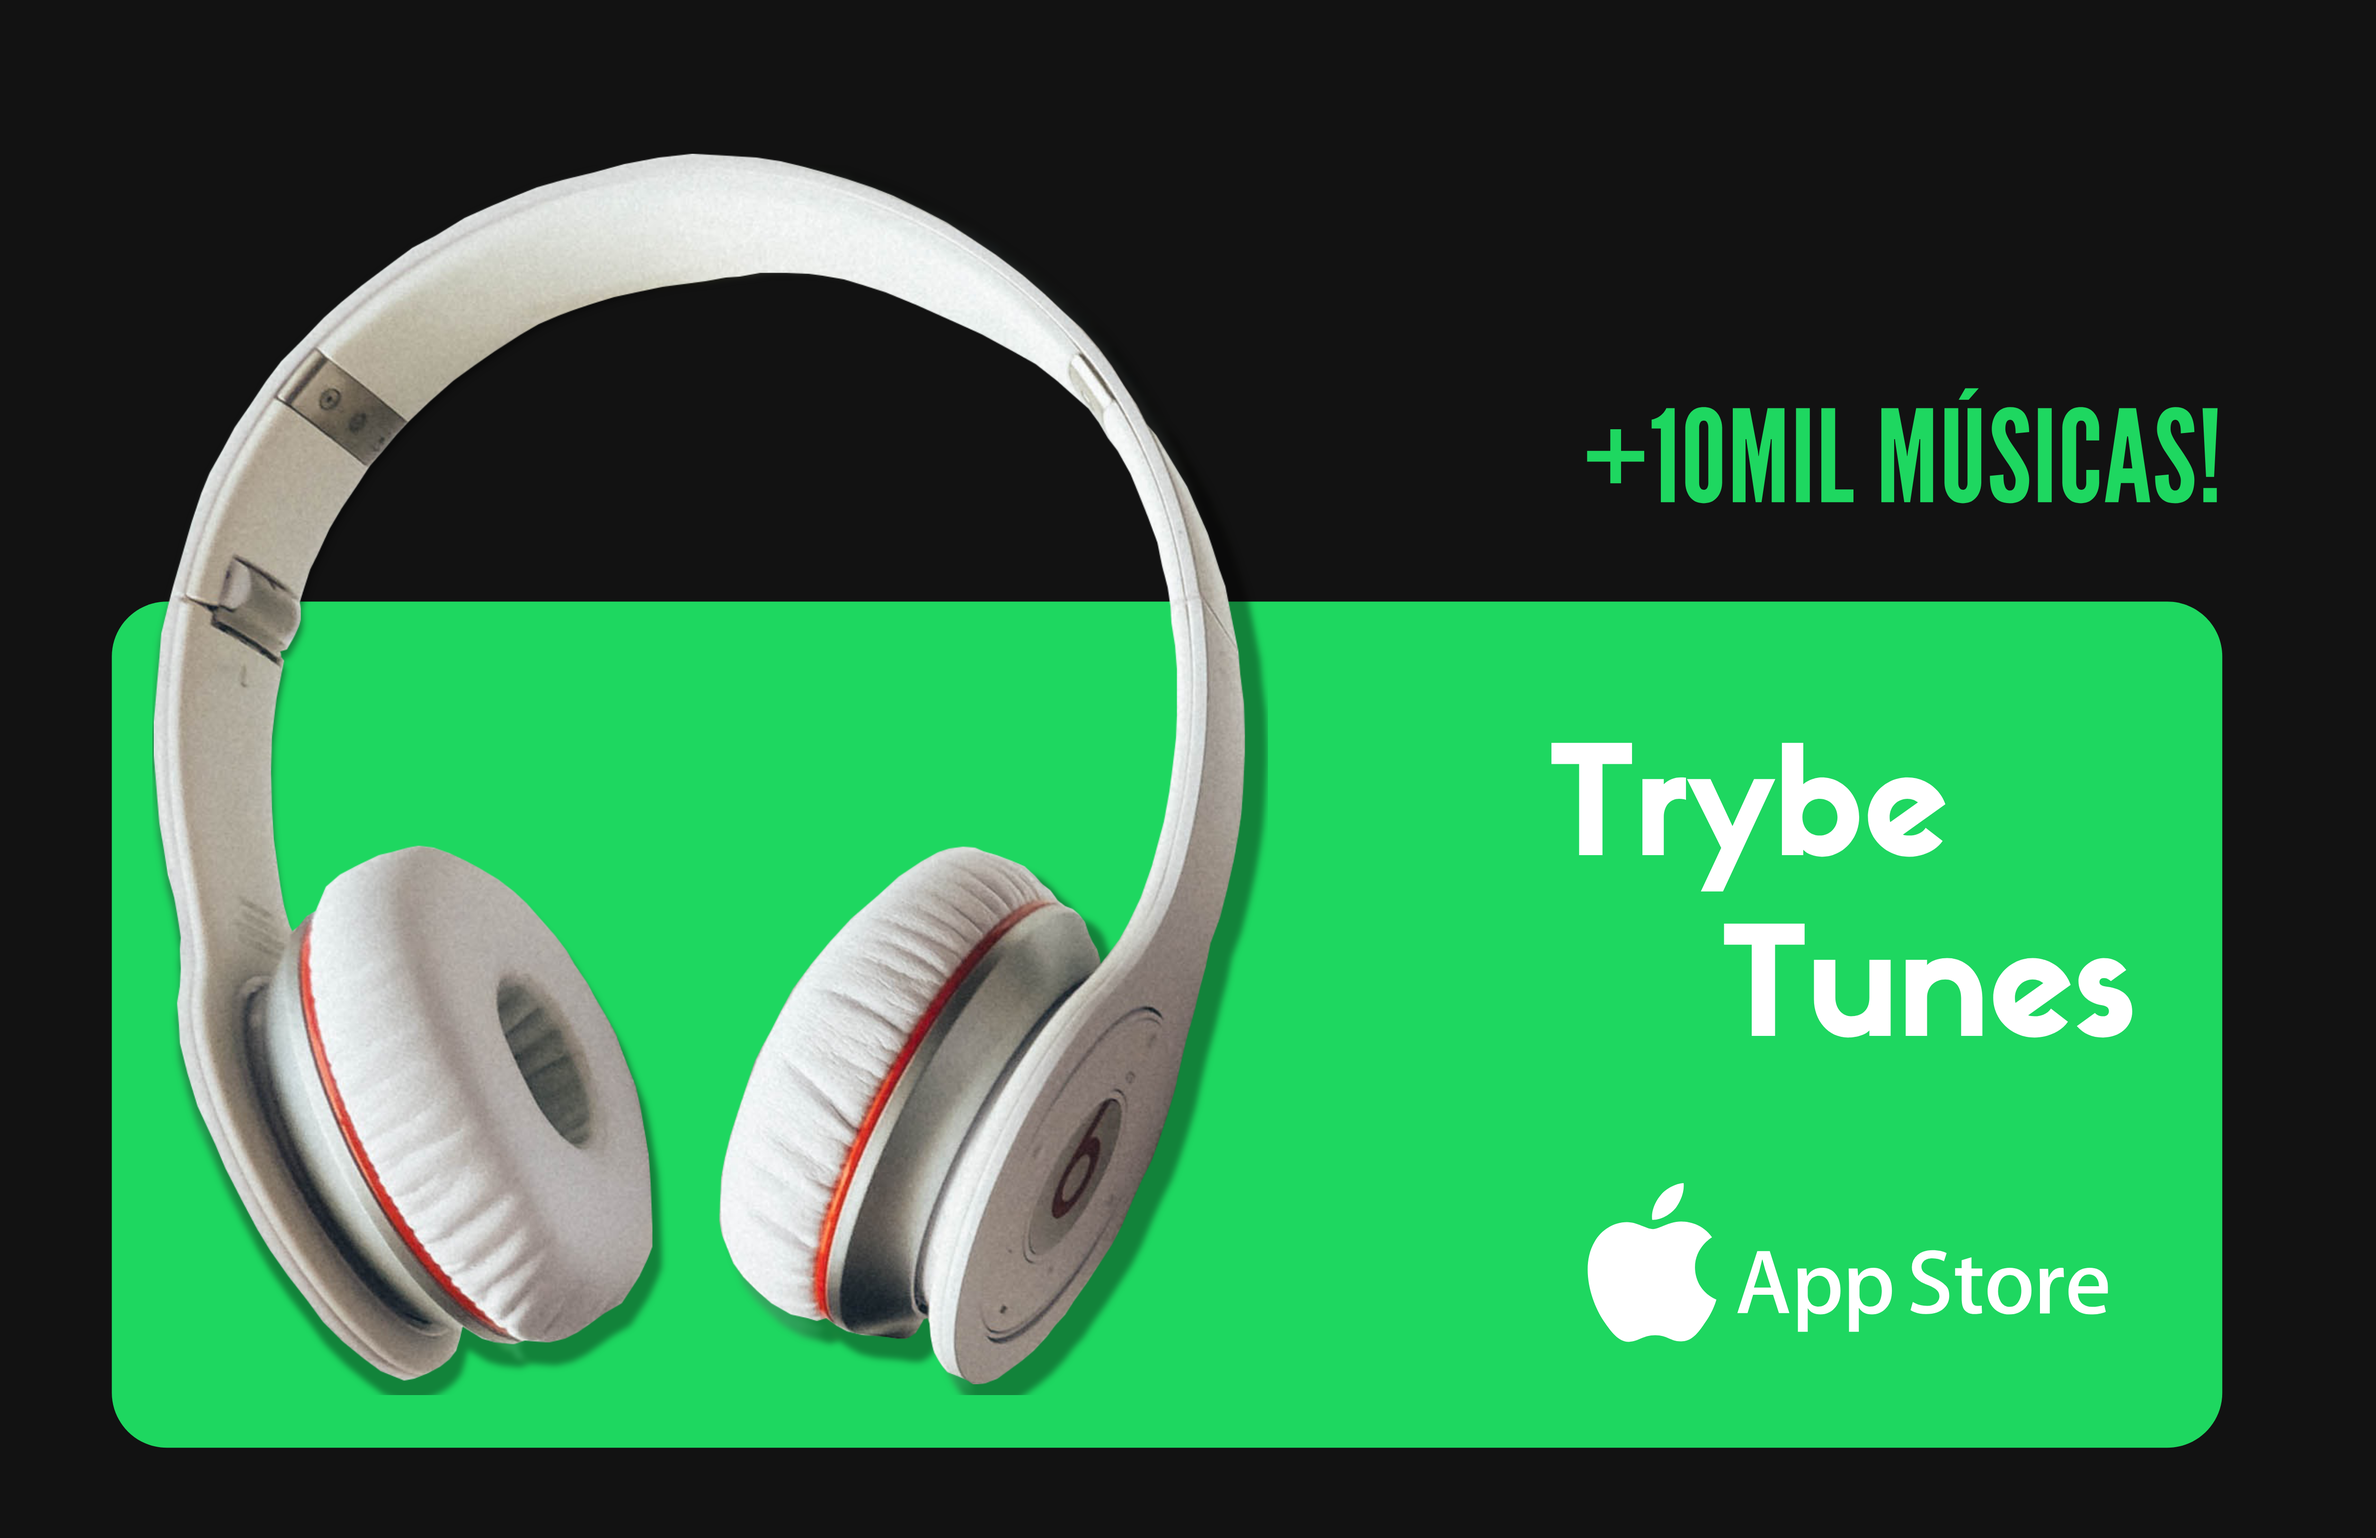
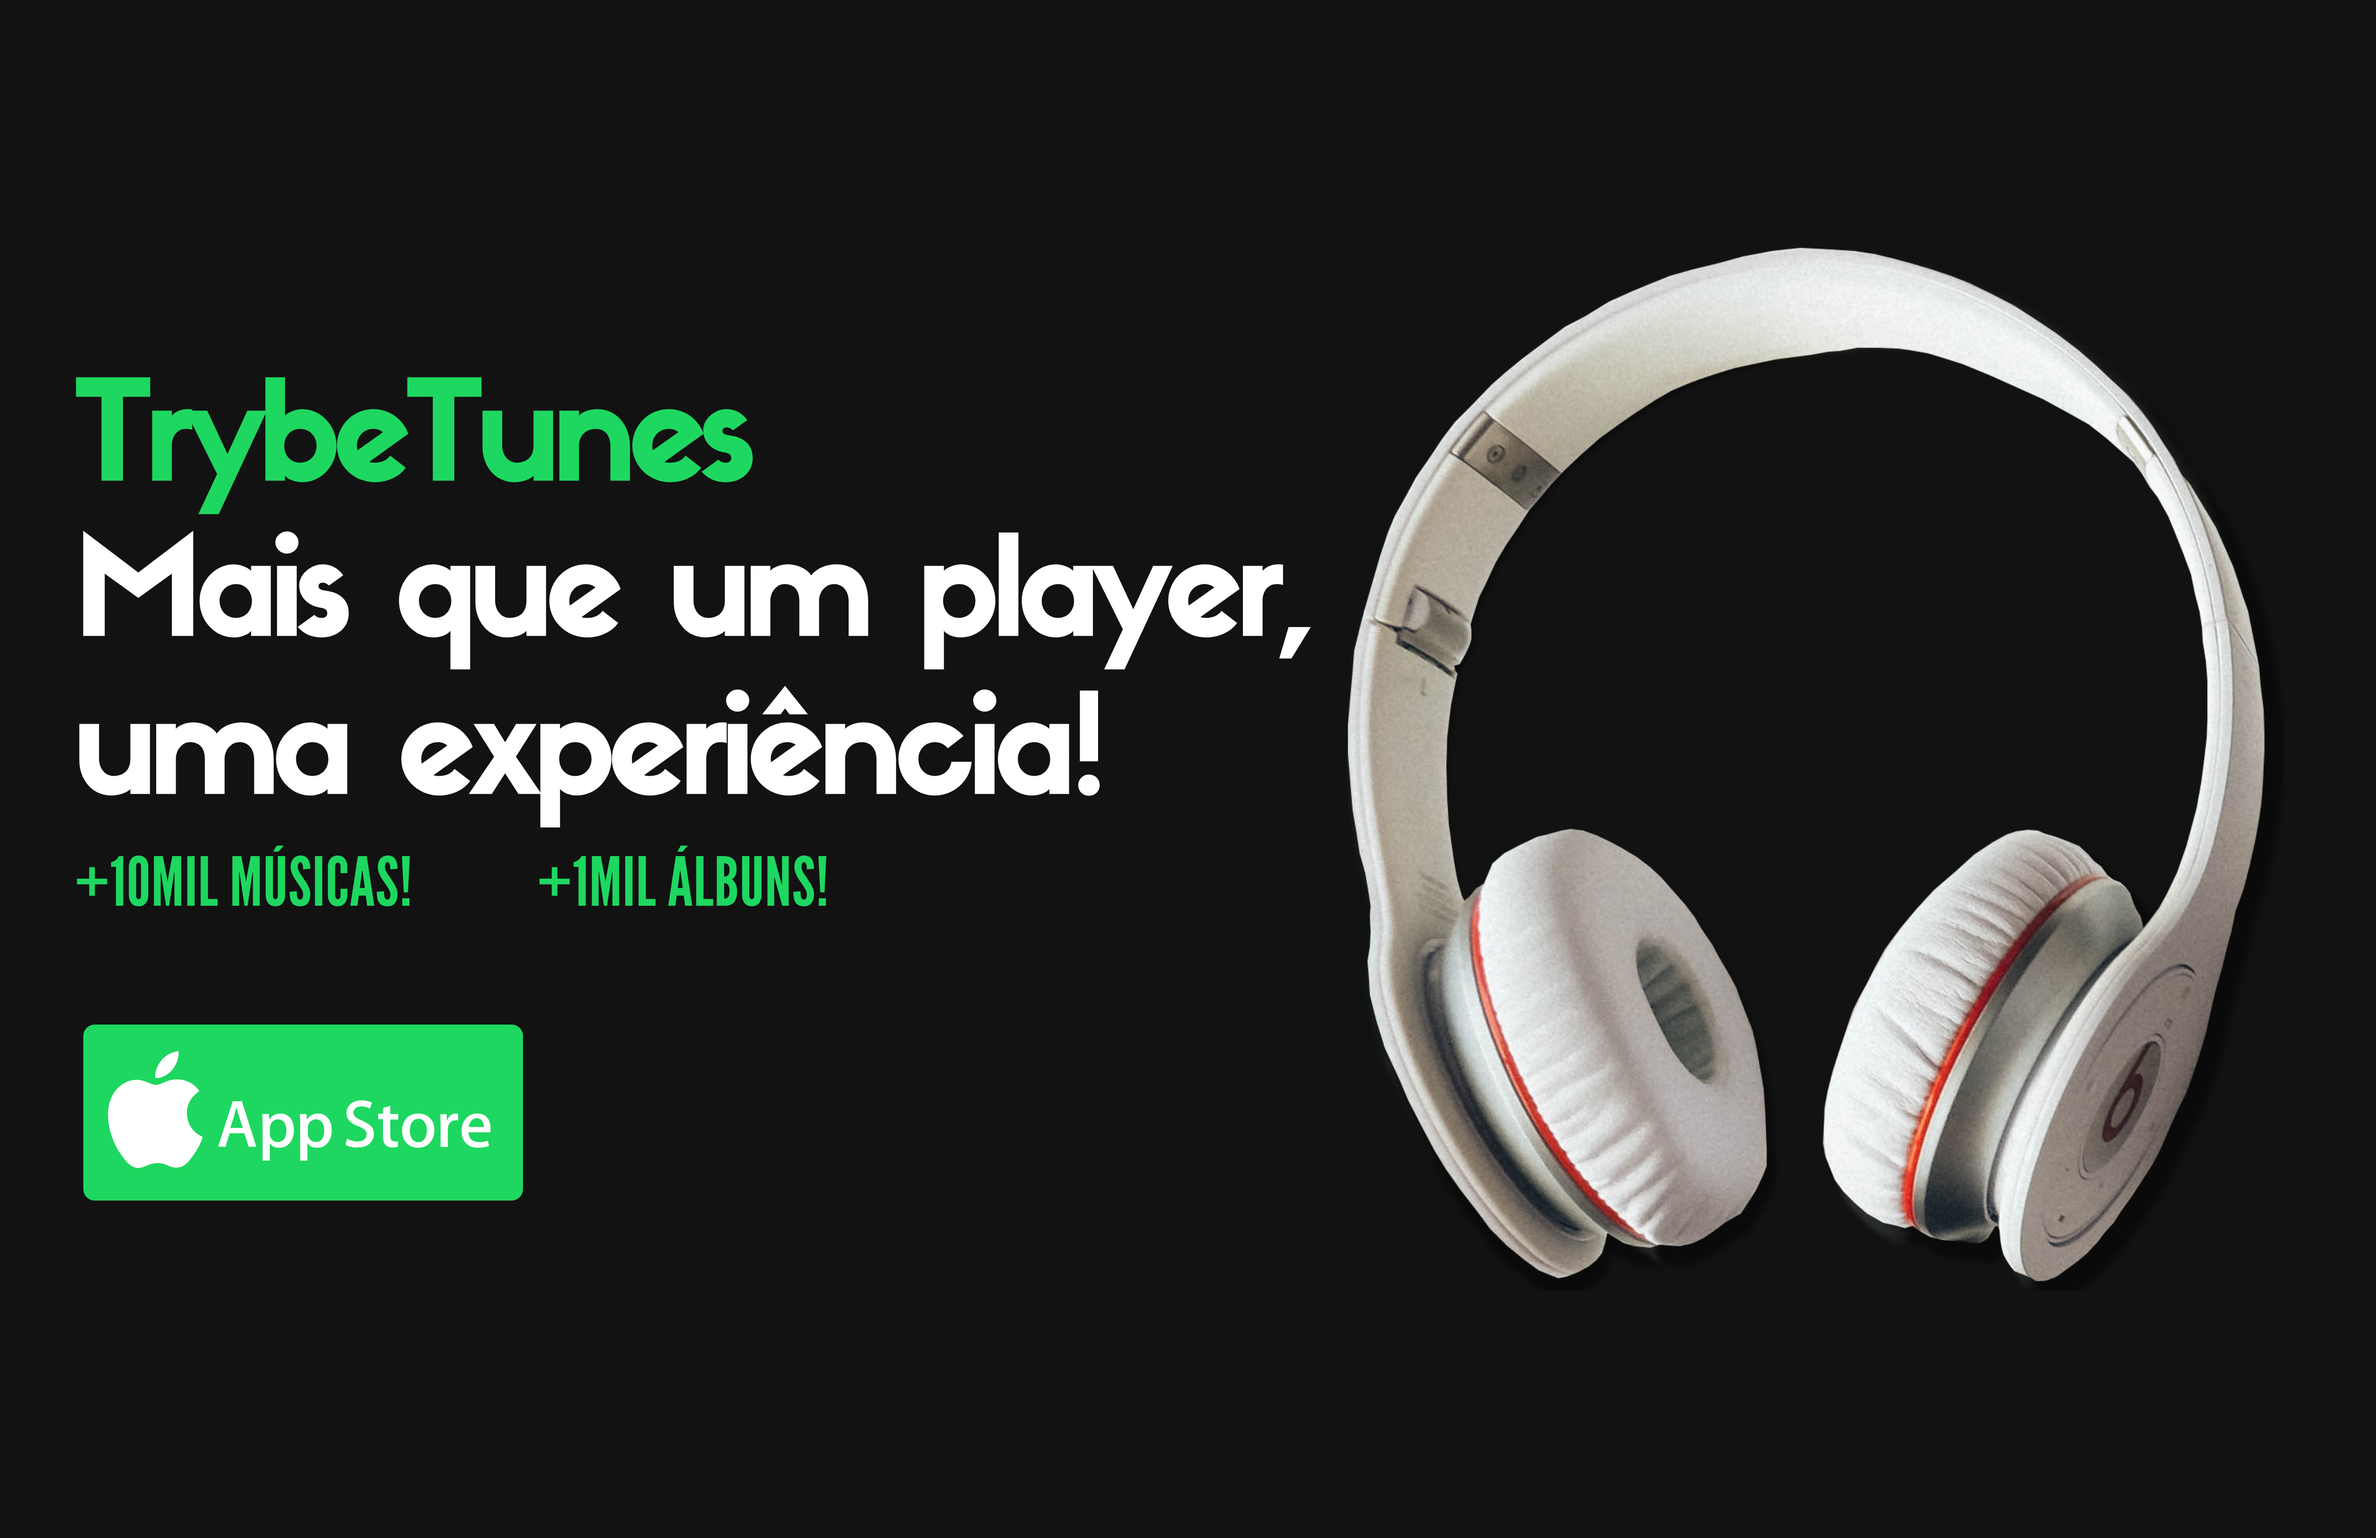
Altera imagem da pagina inicial

diff --git a/src/pages/Favorites.jsx b/src/pages/Favorites.jsx
@@ -51,7 +51,7 @@ class Favorites extends React.Component {
       <div data-testid="page-favorites">
         <Header />
         <div className="favorite-musics">
-          <h1>Suas músicas favoritas!</h1>
+          <h1>Você não cansa de ouvir:</h1>
           <div>
             { favoritesSongs.length > 0 && this.renderMusics() }
           </div>

diff --git a/src/styles/Search.css b/src/styles/Search.css
@@ -118,6 +118,6 @@ body {
 }
 
 .imagem-inicial {
-    width: 1000px;
-    margin-left: 300px;
+    width: 900px;
+    margin-left: 400px;
 }

diff --git a/src/styles/Favorites.css b/src/styles/Favorites.css
@@ -1,3 +1,8 @@
 .favorite-musics {
     margin-left: 350px;
+    padding-top: 30px;
+}
+
+.favorite-musics h1 {
+    color: #fff;
 }
